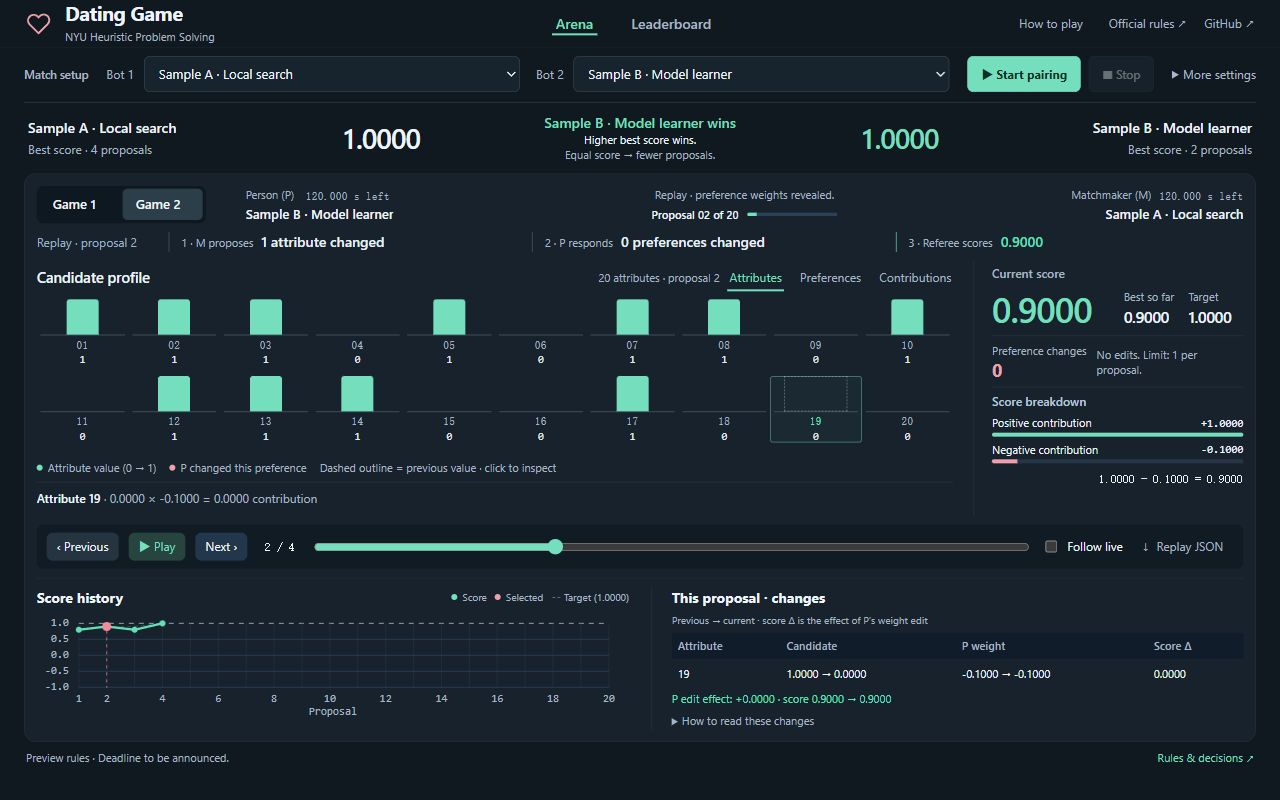
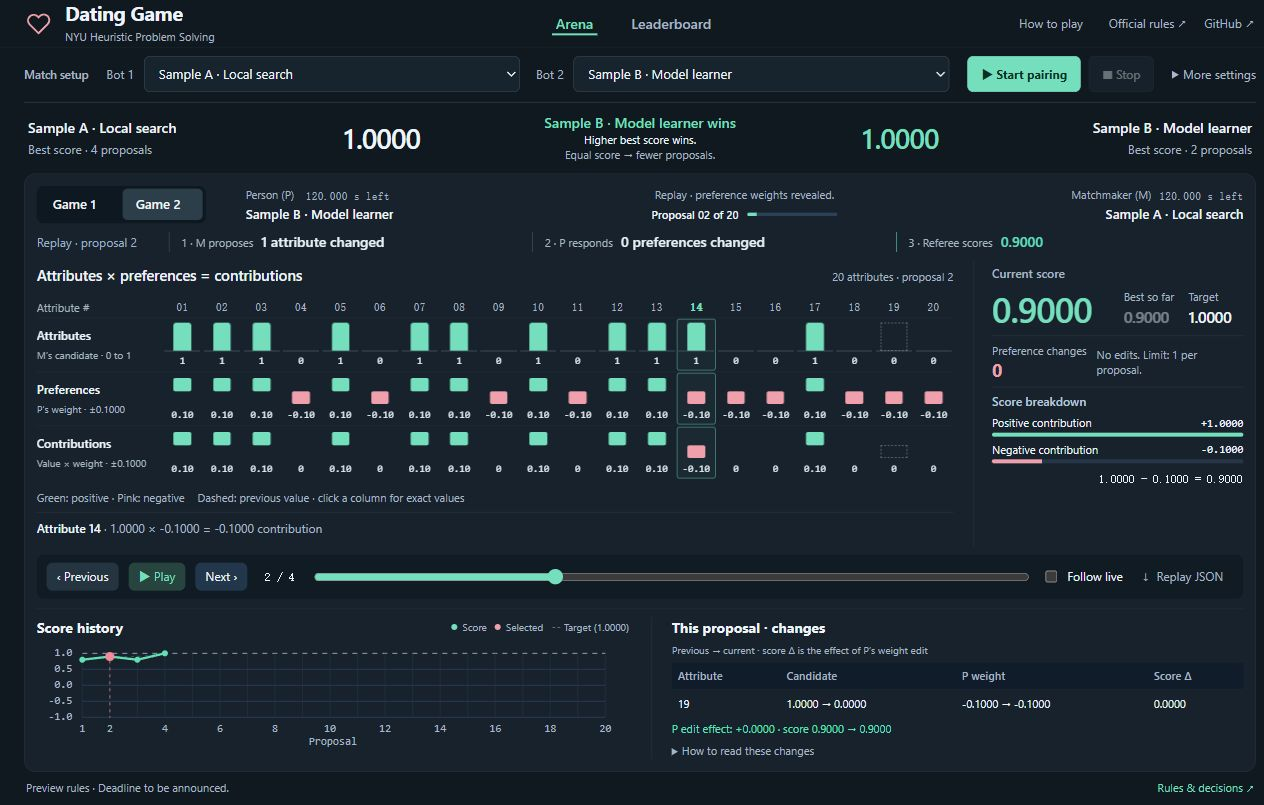
Show candidate weights and contributions in aligned plots

diff --git a/dashboard/index.html b/dashboard/index.html
@@ -1,10 +1,10 @@
 <!doctype html>
-<html lang="en"><head><meta charset="utf-8"><meta name="viewport" content="width=device-width,initial-scale=1"><title>Dating Game — Tournament desk</title><link rel="stylesheet" href="style.css"><link rel="stylesheet" href="polish.css?v=quiet-2"><link rel="stylesheet" href="desk.css?v=quiet-2"></head><body>
+<html lang="en"><head><meta charset="utf-8"><meta name="viewport" content="width=device-width,initial-scale=1"><title>Dating Game — Tournament desk</title><link rel="stylesheet" href="style.css"><link rel="stylesheet" href="polish.css?v=matrix-1"><link rel="stylesheet" href="desk.css?v=matrix-1"></head><body>
 <header class="topbar"><a class="brand" href="#arena" aria-label="Dating Game home"><svg viewBox="0 0 24 24" fill="none" stroke="currentColor" stroke-width="1.8"><path d="M20.8 4.6a5.4 5.4 0 0 0-7.6 0L12 5.8l-1.2-1.2a5.4 5.4 0 0 0-7.6 7.6L12 21l8.8-8.8a5.4 5.4 0 0 0 0-7.6Z"/></svg><span><strong>Dating Game</strong><small>NYU Heuristic Problem Solving</small></span></a><nav aria-label="Main navigation"><button class="nav-button active" data-tab="arena">Arena</button><button class="nav-button" data-tab="leaderboard">Leaderboard</button></nav><div class="external"><button id="how-to-play" class="help-button">How to play</button><a class="rules-link" href="https://cs.nyu.edu/courses/fall26/CSCI-GA.2965-001/dating.html" target="_blank" rel="noopener">Official rules ↗</a><a href="https://github.com/ClareXUse/dating-game" target="_blank" rel="noopener">GitHub ↗</a></div></header>
 <div class="app-shell" id="shell"><aside class="rail" aria-label="Tournament setup"><h2>Match setup</h2><div class="participants"><label class="field">Bot 1<select id="bot-a" aria-label="Bot 1"></select></label><label class="field">Bot 2<select id="bot-b" aria-label="Bot 2"></select></label></div><div class="rail-actions"><button class="primary" id="start">▶ Start pairing</button><button id="stop" disabled>■ Stop</button></div><details class="advanced-settings"><summary>More settings</summary><div class="settings-group"><label class="setting">Attributes per person<input id="n" type="number" min="2" max="200" value="20"></label><label class="setting">Clock per role / game<span class="input-unit"><input id="clock" type="number" min="0.01" max="3600" step="any" value="120"><span class="unit">s</span></span></label><label class="setting">Watch pace<span class="input-unit"><input id="pace" type="number" min="0" max="3000" step="100" value="300"><span class="unit">ms</span></span></label></div><button class="quiet" id="round-robin">Every pair</button><button class="rescan" id="rescan">↻ Rescan bot roster</button></details></aside>
 <main class="workspace"><div id="error" class="error" role="alert" hidden></div><section id="arena-view" aria-labelledby="arena-heading"><div class="status sr-only" id="run-status" role="status"><span class="dot"></span><span id="status-text">Connecting…</span></div><h1 id="arena-heading" class="sr-only">Match arena</h1><section id="pairing-summary" class="pairing-summary" aria-label="Two-game score comparison"></section><div class="arena-frame"><div class="game-context"><div class="match-toolbar"><div class="game-strip" id="game-strip"></div></div><div class="versus"><div class="player"><div class="avatar" id="p-avatar">A</div><div><div class="role">Person (P)</div><div class="player-name" id="p-name">Sample A</div><div class="clock-track"><span id="p-clock-fill" style="width:100%"></span></div><div class="clock" id="p-clock">120.000 s left</div></div></div><div class="match-center"><div class="game-label" id="game-label">GAME 1 OF 2</div><div class="connector"><svg viewBox="0 0 24 24" fill="none" stroke="currentColor" stroke-width="1.5"><path d="M20.8 4.6a5.4 5.4 0 0 0-7.6 0L12 5.8l-1.2-1.2a5.4 5.4 0 0 0-7.6 7.6L12 21l8.8-8.8a5.4 5.4 0 0 0 0-7.6Z"/></svg></div><p id="turn-label">Ready for the first proposal.</p><div class="progress-strip"><strong id="proposal-label">Proposal 00 of 20</strong><div class="progress-line"><span id="progress-fill" style="width:0%"></span></div><span class="mono muted" id="proposal-counter">0 / 20</span></div></div><div class="player right"><div><div class="role">Matchmaker (M)</div><div class="player-name" id="m-name">Sample B</div><div class="clock-track"><span id="m-clock-fill" style="width:100%"></span></div><div class="clock" id="m-clock">120.000 s left</div></div><div class="avatar m" id="m-avatar">B</div></div></div>
-</div><section id="decision-flow" aria-label="Proposal decisions"></section><div class="viz-grid"><section class="visual-pane" aria-labelledby="attributes-title"><div class="pane-head"><h2 id="attributes-title">Candidate profile</h2><span id="profile-caption" class="profile-caption"></span><div class="segmented" role="group" aria-label="Attribute visualization"><button class="active" data-mode="candidate">Attributes</button><button data-mode="weights">Preferences</button><button data-mode="contributions">Contributions</button></div></div><div class="attributes" id="attributes"></div><div id="reveal-note" class="reveal-note" hidden>Preference values stay hidden while a game is running. After the game, replay any proposal to see the weights and each attribute's contribution.</div><div class="legend" id="attribute-legend"><span><i class="swatch"></i> Attribute value (0 → 1)</span><span><i class="swatch coral"></i> P changed this preference</span><span>Click an attribute to inspect</span></div><div class="attribute-detail" id="attribute-detail">Select an attribute to see how the score is calculated.</div></section>
+</div><section id="decision-flow" aria-label="Proposal decisions"></section><div class="viz-grid"><section class="visual-pane" aria-labelledby="attributes-title"><div class="pane-head"><h2 id="attributes-title">Candidate profile</h2><span id="profile-caption" class="profile-caption"></span></div><div class="attributes" id="attributes"></div><div id="reveal-note" class="reveal-note" hidden>Preference values stay hidden while a game is running. After the game, replay any proposal to see the weights and each attribute's contribution.</div><div class="legend" id="attribute-legend"><span><i class="swatch"></i> Attribute value (0 → 1)</span><span><i class="swatch coral"></i> P changed this preference</span><span>Click an attribute to inspect</span></div><div class="attribute-detail" id="attribute-detail">Select an attribute to see how the score is calculated.</div></section>
 <aside class="inspector"><h2>Current score</h2><div class="score" id="current-score">—</div><div class="score-sub"><div><small>Best so far</small><strong id="best-score">—</strong></div><div><small>Target</small><strong>1.0000</strong></div></div><div class="preference-change"><div><small>Preference changes</small><strong id="change-count">0</strong></div><p id="change-text">P may change up to 5% of the attributes each turn.</p></div><div class="equation"><strong>Score breakdown</strong><p id="equation-text">Each attribute contributes its value multiplied by P's weight. The contributions add up to the score.</p><div id="contribution-summary" hidden><div class="evaluation-row"><span>Positive contribution</span><span id="positive-sum"></span></div><div class="contribution-meter"><span class="positive" id="positive-meter"></span></div><div class="evaluation-row"><span>Negative contribution</span><span id="negative-sum"></span></div><div class="contribution-meter"><span class="negative" id="negative-meter"></span></div><div class="score-equation" id="score-equation"></div></div></div></aside></div>
 <div class="replay-controls"><button id="previous" aria-label="Previous proposal">‹ Previous</button><button id="play">▶ Play</button><button id="next" aria-label="Next proposal">Next ›</button><span class="counter" id="replay-counter">0 / 0</span><input id="seek" type="range" min="1" max="20" value="1" aria-label="Proposal"><label class="follow"><input id="follow" type="checkbox" checked> Follow live</label><button id="download" aria-label="Download replay">↓ <span class="download-label">Replay JSON</span></button></div><div class="analysis-grid"><section class="curve-pane" aria-label="Score history and replay"><div class="curve-head"><div><h2 id="curve-title">Score by attempt</h2><p class="curve-description">Higher is better. A rising line means better proposals.</p></div><div class="legend"><span><i class="swatch"></i> Score</span><span><i class="swatch coral"></i> Selected</span><span>╌ Target (1.0000)</span></div></div><svg class="chart" id="chart" viewBox="0 0 1000 165" role="img" aria-label="Score by proposal, from negative one to one"></svg></section><section id="change-log" class="change-log" aria-label="Changes in the selected proposal"></section></div></div><div class="notice"><span>Preview rules · Deadline to be announced.</span><a href="https://github.com/ClareXUse/dating-game/blob/main/docs/RULES.md" target="_blank" rel="noopener">Rules & decisions ↗</a></div></section>
 <section id="leaderboard-view" hidden><h1 class="screen-title">Leaderboard</h1><p class="screen-subtitle">Pairing wins first. Each bot plays both sides of the game.</p><div class="results-panel"><div class="results-toolbar"><div><h2>Tournament standings</h2><p>Calculated from completed pairings saved on this host.</p></div><div class="inline-actions"><button id="import">↑ Import replay</button><input type="file" id="import-file" class="file-input" accept="application/json,.json"><button id="export-results">↓ Export results</button></div></div><div class="table-scroll"><table><thead><tr><th>#</th><th>Bot</th><th>Pairings</th><th>Won</th><th>Tied</th><th>Lost</th><th>Best M score</th></tr></thead><tbody id="standings"></tbody></table></div><div id="standings-empty" class="empty-state"><strong>No completed pairings yet.</strong>Run your first pairing from the arena.</div></div><div class="results-panel history-section"><div class="results-toolbar"><div><h2>Match history</h2><p>Open either game to inspect attributes, preferences and scores.</p></div></div><div class="table-scroll"><table><thead><tr><th>Pairing</th><th>Attributes</th><th>Winner</th><th>M scores</th><th>Replay</th></tr></thead><tbody id="history"></tbody></table></div></div></section>
-</main></div><dialog id="play-guide" aria-labelledby="play-guide-title"><div class="dialog-head"><h2 id="play-guide-title">How to play</h2><form method="dialog"><button aria-label="Close instructions">×</button></form></div><div id="play-guide-body"></div><form method="dialog" class="dialog-footer"><button class="primary">Got it</button></form></dialog><div class="toast" id="toast" role="status" hidden></div><script type="module" src="app.js?v=quiet-2"></script></body></html>
+</main></div><dialog id="play-guide" aria-labelledby="play-guide-title"><div class="dialog-head"><h2 id="play-guide-title">How to play</h2><form method="dialog"><button aria-label="Close instructions">×</button></form></div><div id="play-guide-body"></div><form method="dialog" class="dialog-footer"><button class="primary">Got it</button></form></dialog><div class="toast" id="toast" role="status" hidden></div><script type="module" src="app.js?v=matrix-1"></script></body></html>

diff --git a/dashboard/charts.js b/dashboard/charts.js
@@ -42,44 +42,42 @@ export function renderAttributes(game,row,mode,selected,onSelect){
   const animate=root.dataset.motionKey!==animationKey&&!matchMedia('(prefers-reduced-motion: reduce)').matches;
   root.dataset.motionKey=animationKey;
   const weights=row?.weights||(row?.round===game?.history?.at(-1)?.round?game?.final_weights:null);
-  const signed=mode!=='candidate';
-  const values=mode==='weights'?weights:mode==='contributions'?weights?.map((w,i)=>w*(row?.candidate?.[i]||0)):row?.candidate||game?.pending_candidate;
-  $('attributes-title').textContent=mode==='weights'?"P's preferences":mode==='contributions'?'Score contributions':'Candidate profile';
-  const locked=signed&&!weights;
-  $('reveal-note').hidden=!locked;root.hidden=locked;
-  $('reveal-note').textContent=game?.original_weights?'This older replay does not contain preference weights for this proposal. Run a new pairing to capture every change.':'Preference values stay hidden while a game is running. After the game, replay any proposal to see the weights and each attribute’s contribution.';
-  root.classList.toggle('dense',n>40);root.classList.toggle('signed',signed);root.classList.toggle('contributions',mode==='contributions');root.replaceChildren();
-  const priorValues=mode==='weights'?priorWeights:mode==='contributions'?previous?.weights?.map((w,i)=>w*previous.candidate[i]):previous?.candidate;
-  const max=signed?Math.max(.0001,...(values||[]).map(Math.abs),...(priorValues||[]).map(Math.abs)):1;
-  if(!locked)for(let i=0;i<n;i++){
-    const v=values?.[i],changed=!!weights&&row?.changed?.includes(i);
-    const prior=mode==='candidate'?previous?.candidate?.[i]:mode==='weights'?priorWeights?.[i]:previous?.weights?.[i]*previous?.candidate?.[i];
-    const moved=Number.isFinite(prior)&&v!==prior;
-    const b=element('button','attribute'+(i===selected?' selected':'')+(changed?' changed':'')+(moved?' value-changed':''));b.type='button';
-    b.setAttribute('aria-label',`Attribute ${i+1}: ${v==null?'not proposed':v}${changed?', preference changed':''}`);
-    b.append(element('span','index',String(i+1).padStart(2,'0')));
-    const track=element('span','bar-track'),fill=element('span','bar-fill');
-    fill.style.height=v==null?'0%':`${Math.abs(v)/max*(signed?45:100)}%`;
-    if(signed){fill.style.bottom=v<0?'auto':'50%';fill.style.top=v<0?'50%':'auto';}
-    fill.style.background=signed&&v<0?'var(--coral)':'var(--mint)';
-    if(moved){
-      const ghost=element('span','bar-before');ghost.style.bottom=signed?'50%':'0';
-      ghost.style.height=`${Math.abs(prior)/max*(signed?45:100)}%`;
-      if(signed&&prior<0){ghost.style.top='50%';ghost.style.bottom='auto';}
-      track.append(ghost);
-      b.title=`Attribute ${i+1}: ${fmt(prior)} → ${fmt(v)}`;
+  const candidate=row?.candidate||game?.pending_candidate;
+  $('attributes-title').textContent='Attributes × preferences = contributions';
+  $('reveal-note').hidden=true;root.hidden=false;
+  root.className='attribute-matrix';root.replaceChildren();
+  const scale=Math.max(.0001,...(weights||[]).map(Math.abs),...(priorWeights||[]).map(Math.abs));
+  const columns=element('div','matrix-columns');columns.style.setProperty('--count',n);root.append(columns);
+  const header=element('div','matrix-row matrix-header');header.append(element('span','matrix-label','Attribute #'));
+  for(let i=0;i<n;i++)header.append(element('span','matrix-index'+(i===selected?' selected':''),String(i+1).padStart(2,'0')));
+  columns.append(header);
+  const lanes=[
+    {name:'Attributes',hint:'M’s candidate · 0 to 1',values:candidate,prior:previous?.candidate,signed:false},
+    {name:'Preferences',hint:'P’s weight · ±'+fmt(scale),values:weights,prior:priorWeights,signed:true},
+    {name:'Contributions',hint:'Value × weight · ±'+fmt(scale),values:weights&&candidate?weights.map((w,i)=>w*candidate[i]):null,prior:previous?.weights?.map((w,i)=>w*previous.candidate[i]),signed:true}
+  ];
+  lanes.forEach(lane=>{
+    const line=element('div','matrix-row'+(lane.signed?' signed':''));
+    const label=element('div','matrix-label');label.append(element('strong','',lane.name),element('small','',lane.hint));line.append(label);
+    if(!lane.values){const locked=element('div','matrix-locked',lane.signed?'Hidden until the game ends':'Waiting for a candidate');locked.style.gridColumn='2 / -1';line.append(locked);columns.append(line);return;}
+    for(let i=0;i<n;i++){
+      const v=lane.values[i],prior=lane.prior?.[i],moved=Number.isFinite(prior)&&v!==prior;
+      const b=element('button','attribute'+(i===selected?' selected':'')+(moved?' value-changed':''));b.type='button';
+      b.setAttribute('aria-label',`${lane.name}, attribute ${i+1}: ${fmt(v)}`);
+      b.title=`${lane.name} ${i+1}: ${moved?fmt(prior)+' → ':''}${fmt(v)}`;
+      const track=element('span','bar-track'),fill=element('span','bar-fill');
+      const max=lane.signed?scale:1,factor=lane.signed?45:100;
+      fill.style.height=`${Math.abs(v)/max*factor}%`;
+      if(lane.signed){fill.style.bottom=v<0?'auto':'50%';fill.style.top=v<0?'50%':'auto';}
+      fill.style.background=v<0?'var(--coral)':'var(--mint)';
+      if(moved){const ghost=element('span','bar-before');ghost.style.height=`${Math.abs(prior)/max*factor}%`;ghost.style.bottom=lane.signed?'50%':'0';if(lane.signed&&prior<0){ghost.style.top='50%';ghost.style.bottom='auto';}track.append(ghost);}
+      track.append(fill);b.append(track,element('span','value',short(v)));b.onclick=()=>onSelect(i);line.append(b);
+      if(animate&&moved)fill.animate([{height:`${Math.abs(prior)/max*factor}%`},{height:fill.style.height}],{duration:480,easing:'cubic-bezier(.2,0,0,1)'});
     }
-    track.append(fill);b.append(track,element('span','value',v==null?'—':mode==='contributions'?(v>0?'+':'')+fmt(v):short(v)));
-    b.addEventListener('click',()=>onSelect(i));root.append(b);
-    if(animate&&moved){
-      fill.animate([{height:`${Math.abs(prior)/max*(signed?45:100)}%`},{height:fill.style.height}],{duration:480,easing:'cubic-bezier(.2,0,0,1)'});
-      b.animate([{backgroundColor:'#304b51'},{backgroundColor:'transparent'}],{duration:850});
-    }
-  }
+    columns.append(line);
+  });
   const legend=$('attribute-legend');legend.replaceChildren();
-  const a=element('span');a.append(element('i','swatch'),document.createTextNode(signed?(mode==='weights'?'Positive preference':'Raises score'):'Attribute value (0 → 1)'));
-  const b=element('span');b.append(element('i','swatch coral'),document.createTextNode(signed?(mode==='weights'?'Negative preference':'Lowers score'):'P changed this preference'));
-  legend.append(a,b,element('span','',signed?`Zero at center · scale ±${fmt(max)}`:'Dashed outline = previous value · click to inspect'));
+  legend.append(element('span','','Green: positive · Pink: negative'),element('span','','Dashed: previous value · click a column for exact values'));
   const detail=$('attribute-detail');detail.replaceChildren();
   if(!row?.candidate){detail.textContent='Select an attribute to see how the score is calculated.';}
   else if(weights){const i=Math.min(selected,n-1),c=row.candidate[i],w=weights[i];detail.append(element('strong','',`Attribute ${String(i+1).padStart(2,'0')}`),document.createTextNode(`  ·  ${fmt(c)} × ${fmt(w)} = ${fmt(c*w)} contribution${row.changed?.includes(i)?'  ·  P changed this weight':''}`));}

diff --git a/dashboard/desk.css b/dashboard/desk.css
@@ -68,3 +68,12 @@ body{background:var(--bg)}.topbar{background:var(--bg);border-color:#ffffff0d}.b
 @media(min-width:701px){.attributes,.attributes.dense{height:158px;max-height:158px}.change-log{max-height:none;overflow:visible}.change-log .table-scroll{max-height:72px}.scoring-note[open]{padding-top:4px}}
 @media(min-width:1500px) and (min-height:900px){.attributes,.attributes.dense{height:214px;max-height:214px}.change-log .table-scroll{max-height:120px}}
 @media(max-width:700px){.topbar .external>a:not(.rules-link){display:inline;font-size:12px}}
+/* Three aligned plots share attribute columns; signed plots share one scale. */
+.attribute-matrix{overflow:auto;max-height:300px;scrollbar-color:#51697b transparent;padding:3px 0 6px}
+.matrix-columns{min-width:calc(126px + var(--count)*32px)}
+.matrix-row{display:grid;grid-template-columns:126px repeat(var(--count),minmax(32px,1fr));align-items:center;gap:0;min-height:64px}
+.matrix-header{min-height:22px}.matrix-index{text-align:center;font:11px ui-monospace,monospace;color:var(--muted)}.matrix-index.selected{color:var(--mint);font-weight:700}
+.matrix-label{position:sticky;left:0;z-index:2;background:var(--surface);padding-right:10px;font-size:11px;color:var(--muted)}.matrix-label strong{display:block;font-size:12px;color:var(--text);font-weight:500}.matrix-label small{display:block;font-size:10px;line-height:1.5;margin-top:3px}
+.matrix-row .attribute{height:60px;padding:3px 2px;gap:3px}.matrix-row .bar-track{height:35px;flex:none}.matrix-row .bar-fill{left:25%;right:25%}.matrix-row .value{font-size:10px}.matrix-row+.matrix-row{border-top:1px solid #ffffff08}.matrix-locked{font-size:12px;color:var(--muted);padding:15px;border:1px dashed #344955;border-radius:5px}
+@media(max-width:700px){.matrix-columns{min-width:calc(110px + var(--count)*34px)}.matrix-row{grid-template-columns:110px repeat(var(--count),minmax(34px,1fr))}.matrix-label{padding-right:7px}}
+@media(min-width:701px) and (max-height:900px){.matrix-row{min-height:54px}.matrix-header{min-height:20px}.matrix-row .attribute{height:52px}.matrix-row .bar-track{height:29px}}

diff --git a/dashboard/app.js b/dashboard/app.js
@@ -1,7 +1,7 @@
-import {renderDecision} from './motion.js?v=quiet-2';
+import {renderDecision} from './motion.js?v=matrix-1';
 import {$,element,fmt,initial,copy,download,post,error,toast} from './helpers.js';
-import {renderCurve,renderAttributes} from './charts.js?v=quiet-2';
-import {renderComparison,setupHelp} from './match-view.js?v=quiet-2';
+import {renderCurve,renderAttributes} from './charts.js?v=matrix-1';
+import {renderComparison,setupHelp} from './match-view.js?v=matrix-1';
 setupHelp();
 
 let state={bots:[],results:[],running:false,live:null,active_games:[]};

diff --git a/dashboard/match-view.js b/dashboard/match-view.js
@@ -1,4 +1,4 @@
-import {emphasize} from './motion.js?v=quiet-2';
+import {emphasize} from './motion.js?v=matrix-1';
 import {$,element,fmt,initial} from './helpers.js';
 
 // The referee owns the outcome. Replay position never changes the pairing result.

diff --git a/README.md b/README.md
@@ -48,7 +48,7 @@ See the [submission and host runbook](docs/HOST_GUIDE.md) for the complete ZIP r
 2. **Know the outcome:** the score comparison shows both programs’ best results as M, the pairing winner and the tie-break rule. **How to play** explains both roles, the scoring loop and victory in English.
 3. **Watch live:** attribute bars, proposal progress, score history and separate P/M clocks update during play. **Stop** preserves completed proposals. Watch pace is outside the thinking clock.
 4. **Understand the score:** click an attribute to inspect its contribution. After a game, switch to **Preferences** for signed weights at each proposal, or **Contributions** to see which attributes raise or lower the score around a common zero line. The inspector shows the positive and negative sums and their final arithmetic. Weights stay hidden during active play.
-The desktop arena keeps the selected game, attributes, score breakdown, replay controls and change log together. At 1280 × 800, the default 20-attribute match fits in one screen. Long change lists and larger attribute sets scroll inside their panels; smaller screens stack the panels. Replay controls span the match view. Expand “How to read these changes” for the score-delta explanation.
+The desktop arena keeps the selected game, attributes, score breakdown, replay controls and change log together. At 1280 × 800, the default 20-attribute match uses three aligned bar plots: candidate values, P’s weights and their score contributions. Click any bar to highlight the same attribute across all three plots. Weights and contributions remain hidden during play. Long change lists and larger attribute sets scroll inside their panels; smaller screens stack the panels. Replay controls span the match view. Expand “How to read these changes” for the score-delta explanation.
 
 5. **Follow each decision:** the proposal strip shows candidate edits, P’s response and the referee score in order. Changed attribute bars animate from their previous values, with dashed outlines marking the old values. Beside the score history, the change table compares candidate values and revealed weights and isolates the score effect of P’s edits. Live weights remain hidden. Replay advances every 1.6 seconds; use a watch pace of 1000 ms or more to follow live changes. Reduced-motion preferences disable the animations.
 6. **Replay:** step, play, seek on the chart or slider, follow live, and download JSON. **Leaderboard** shows completed-pairing standings and match history; import/export JSON locally.
